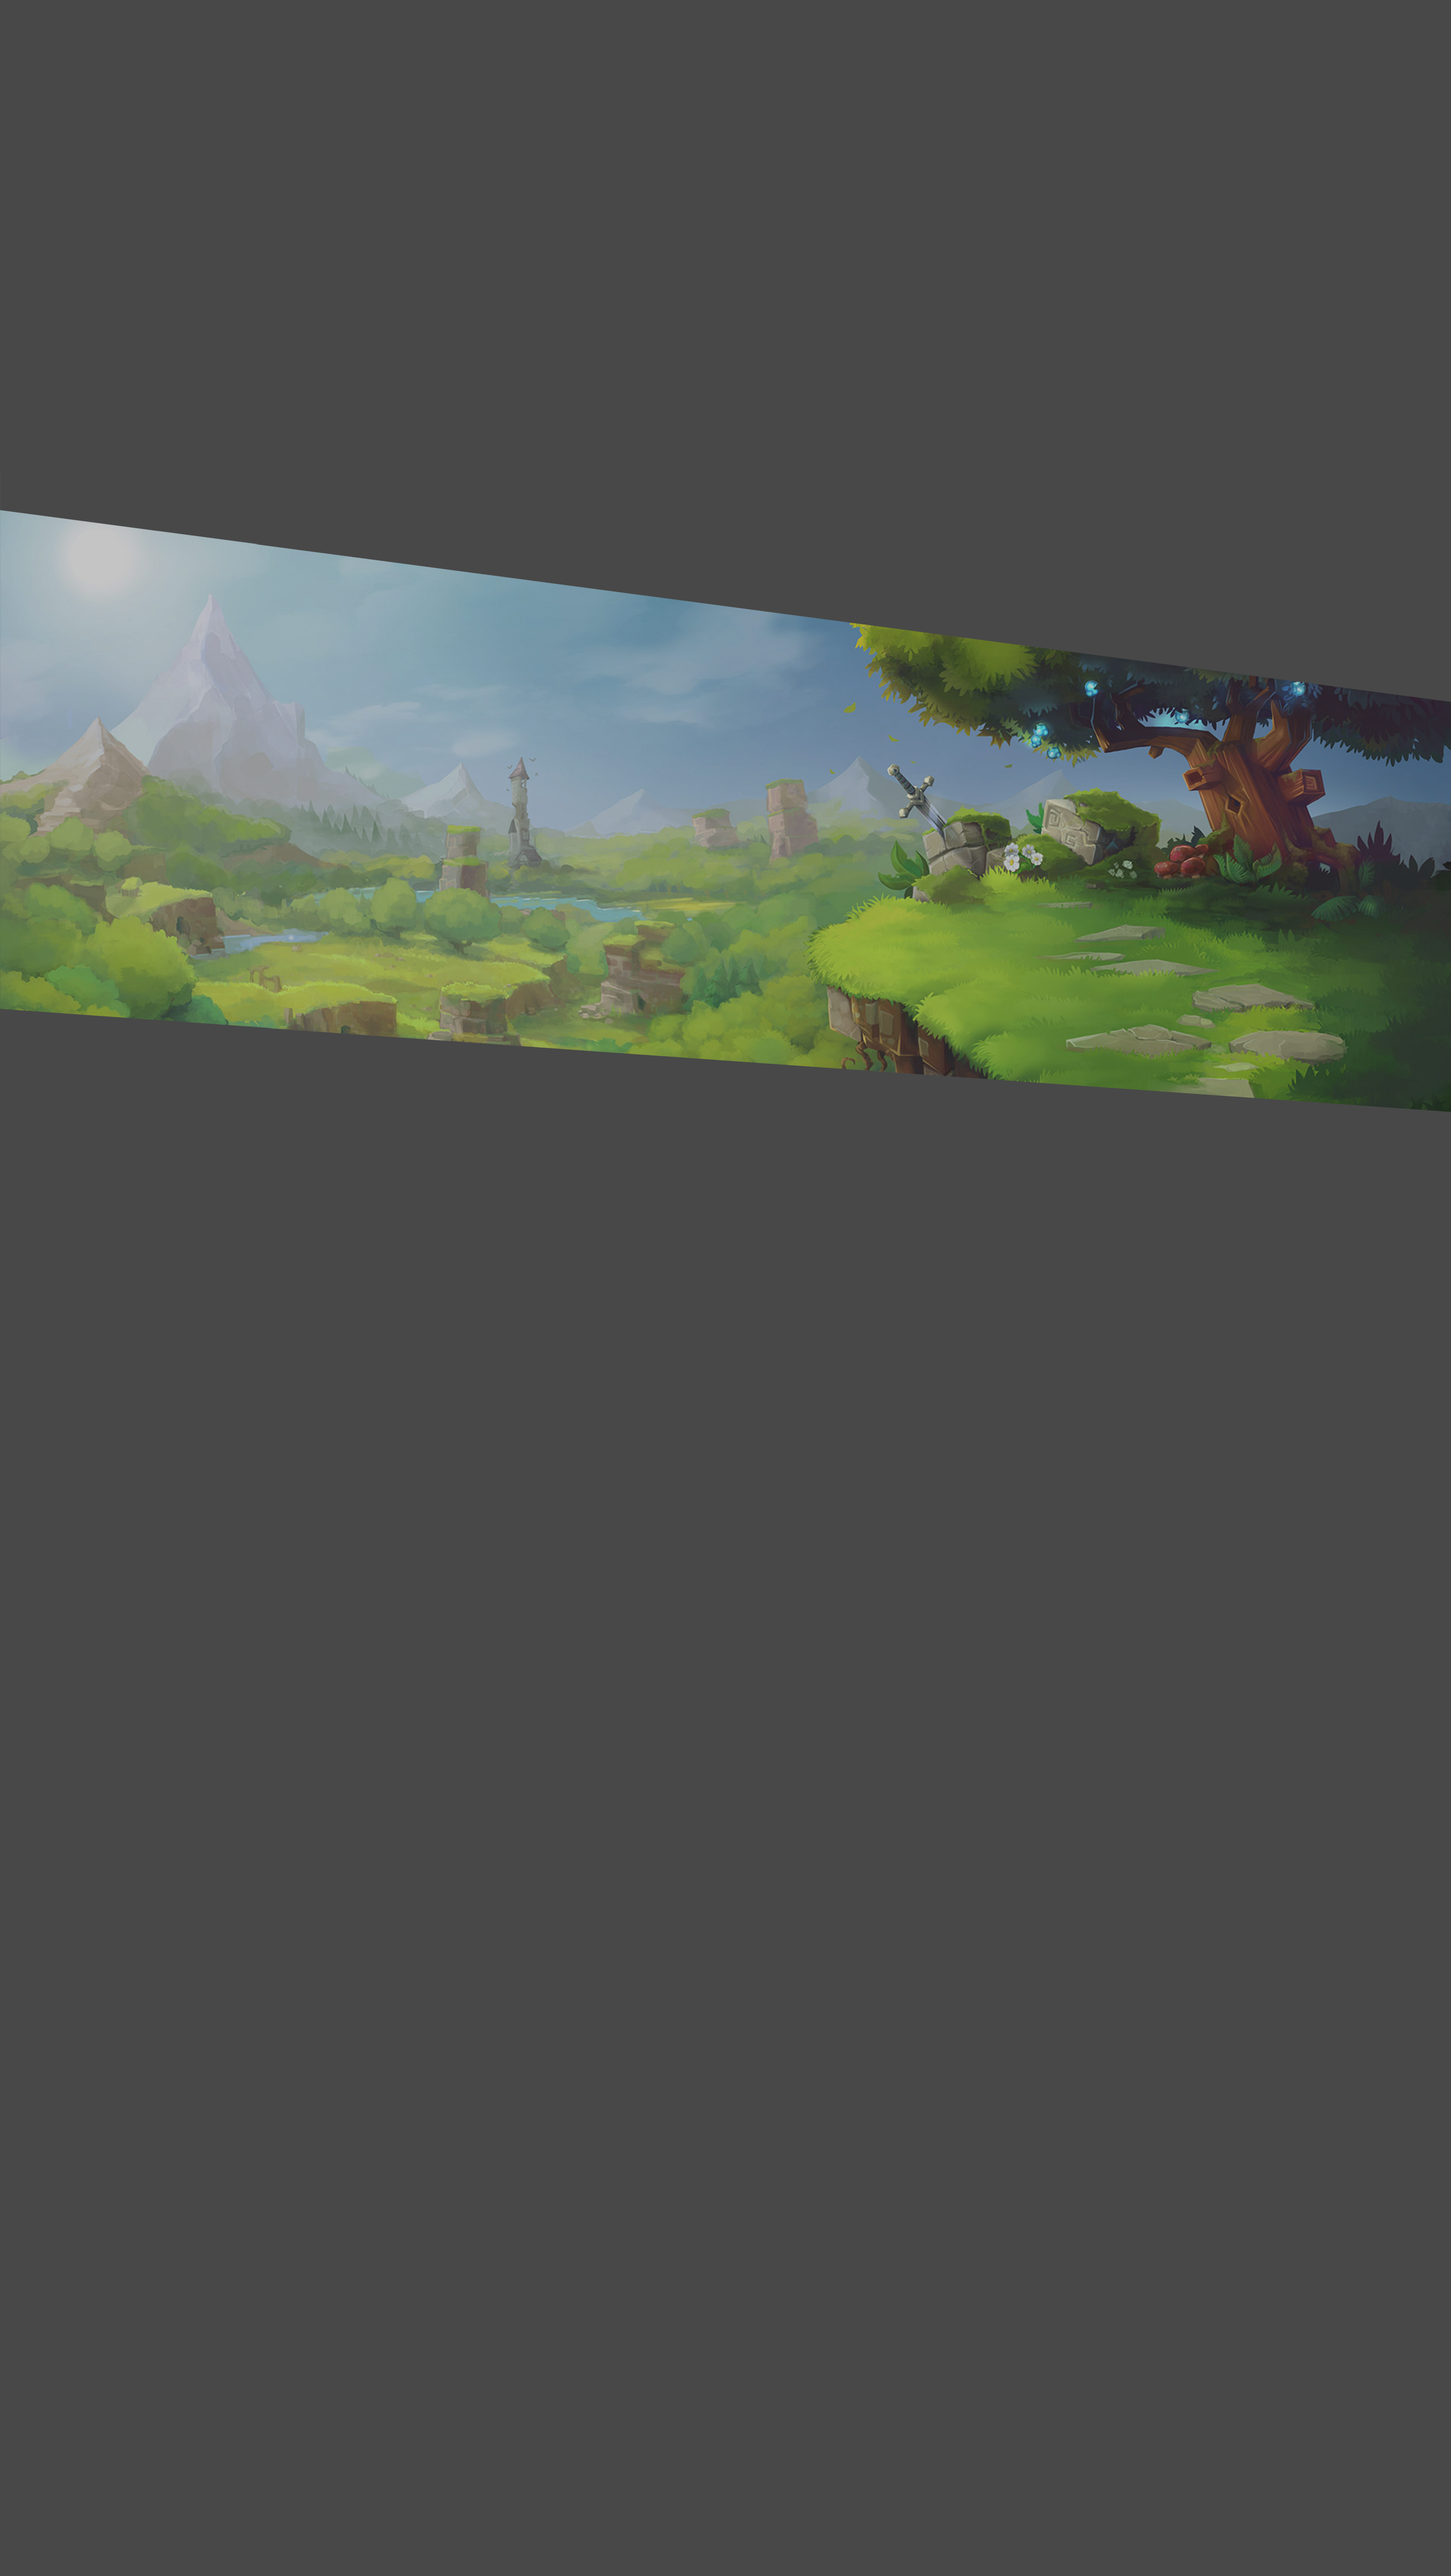
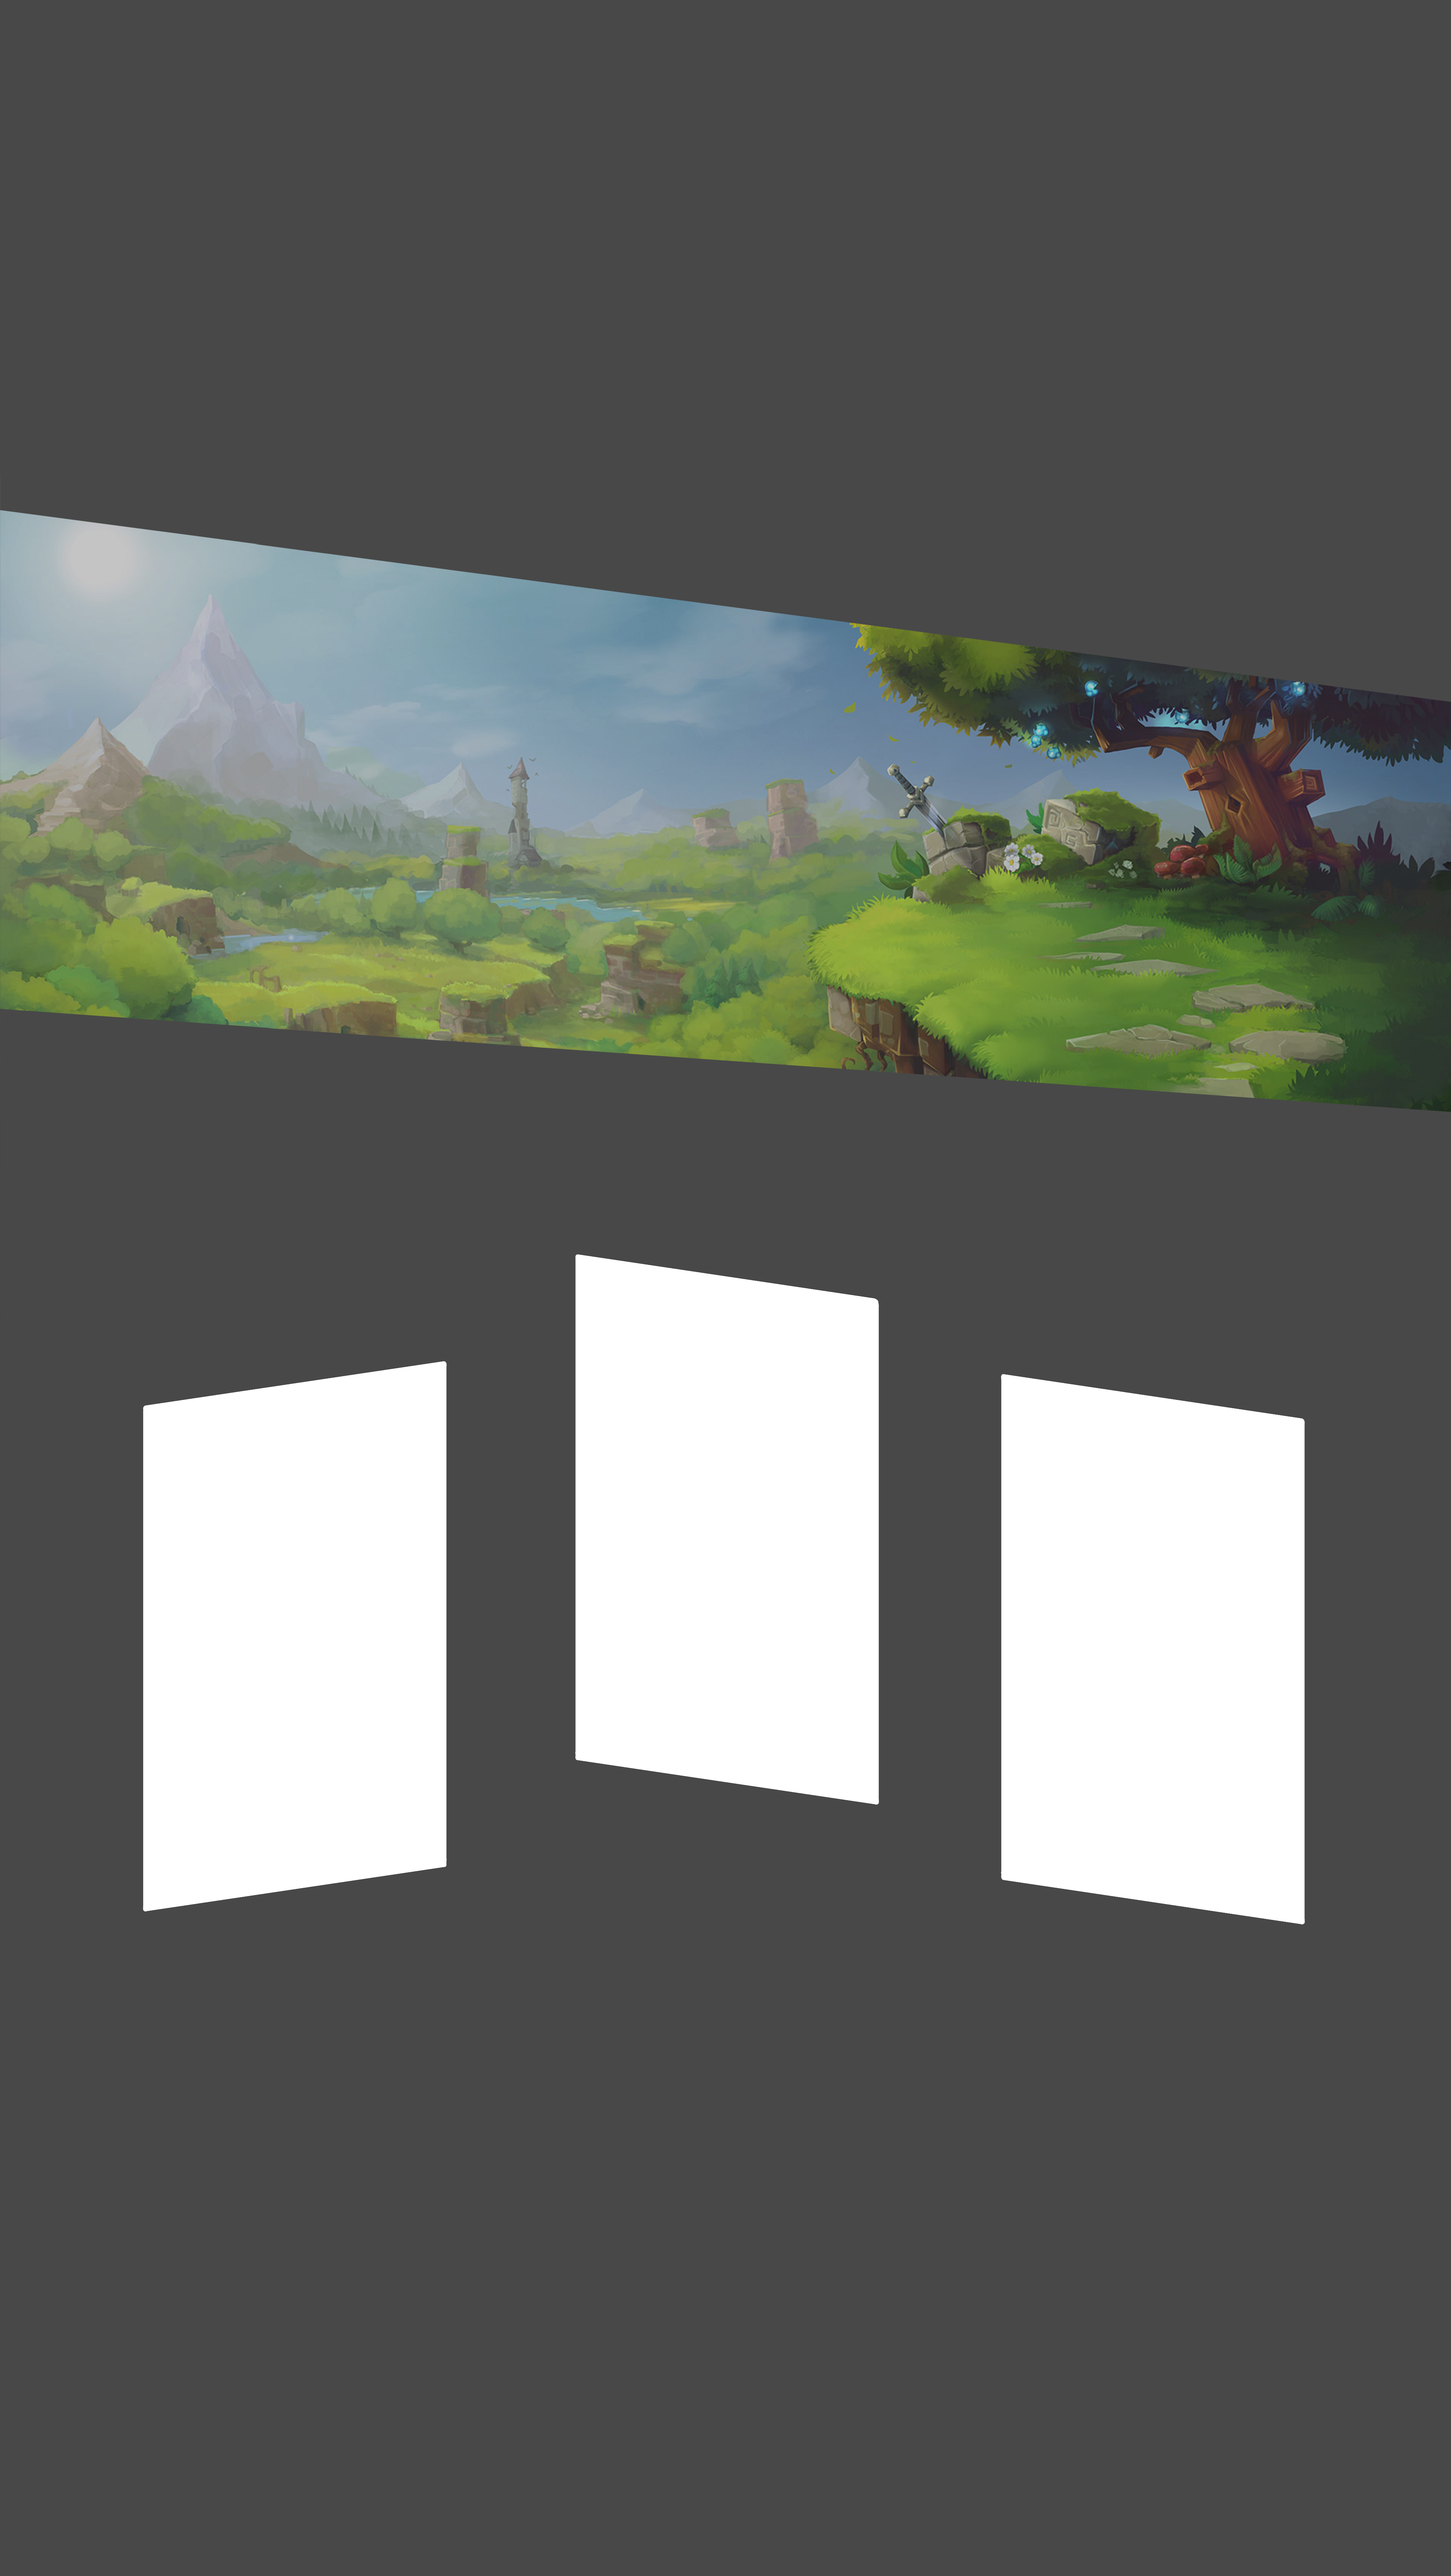
News 0.1

Changed region(s): [[0.373, 0.4686, 0.6217, 0.7185], [0.6839, 0.5311, 0.9015, 0.7498], [0.0933, 0.5311, 0.3109, 0.7498]]

diff --git a/Pupa/index.html b/Pupa/index.html
@@ -6,6 +6,7 @@
         <link href="css/mainBlock.css" rel="stylesheet">
         <link href="css/AuthorizationPanel.css" rel="stylesheet">
         <link href="css/whyBlock.css" rel="stylesheet">
+        <link href="css/newBlock.css" rel="stylesheet">
         <link rel="preconnect" href="https://fonts.gstatic.com/" >
         <link href="https://fonts.googleapis.com/css2?family=Open+Sans:wght@700&family=Raleway:wght@400;600;700&display=swap" rel="stylesheet">
         <link href="https://fonts.googleapis.com/css2?family=Kaushan+Script&family=Montserrat:wght@200&display=swap" rel="stylesheet">
@@ -58,7 +59,7 @@
                 </div>
             </div>
         </div>
-        <div class="WhyBlock">
+        <div class="NextBlock">
             <div class="imgWhyBlock noselect">
                 <img class="BackWhy" src="images/BackNext.png">
                 <img class="BackWhyEf1" src="images/EffectMin2.png">
@@ -78,11 +79,14 @@
                     <h4 class="features__title">Регулярные ивенты</h4>
                 </div>
             </div>
-            <div class="JoinBlock">
+            <div class="JoinBlockText">
                 <h4>Присоединяйся!</h4>
             </div>
             <div class="DSFrame">
                 <iframe src="https://discord.com/widget?id=793835680663994368&theme=dark" allowtransparency="true" frameborder="0" sandbox="allow-popups allow-popups-to-escape-sandbox allow-same-origin allow-scripts"></iframe>
+            </div>
+            <div class="NewBlockText">
+                <h4>Новости</h4>
             </div>
         </div>
         <script type="text/javascript" src="js/jquery.js"></script>

diff --git a/Pupa/css/newBlock.css b/Pupa/css/newBlock.css
@@ -1,0 +1,22 @@
+.NewBlockText{
+    position: absolute;
+    margin-left: 0px;
+    top: 135vw;
+    left: 50%;
+    width: 100%;
+    -webkit-transform: translate(-50%, -50%);
+    -moz-transform: translate(-50%, -50%);
+    -ms-transform: translate(-50%, -50%);
+    -o-transform: translate(-50%, -50%);
+    transform: translate(-50%, -50%);
+    width: 100%;
+    text-align: center;
+}
+.NewBlockText h4{
+    margin-left: 0.3vw;
+    font-size: 2.5vw;
+    color: #e7e7e7;
+    letter-spacing: 1px;
+    font-family: 'Raleway';
+    font-weight: 100px;
+}

diff --git a/Pupa/css/whyBlock.css b/Pupa/css/whyBlock.css
@@ -1,4 +1,4 @@
-.WhyBlock{
+.NextBlock{
     width: 100%;
     height: 56vw;
 }
@@ -59,7 +59,7 @@
     line-height: 1.5;
     color: #6c7279;
 }
-.JoinBlock{
+.JoinBlockText{
     position: absolute;
     margin-left: 0px;
     top: 88vw;
@@ -73,7 +73,7 @@
     width: 100%;
     text-align: center;
 }
-.JoinBlock h4{
+.JoinBlockText h4{
     margin-left: 0.3vw;
     font-size: 2.5vw;
     color: #e7e7e7;
